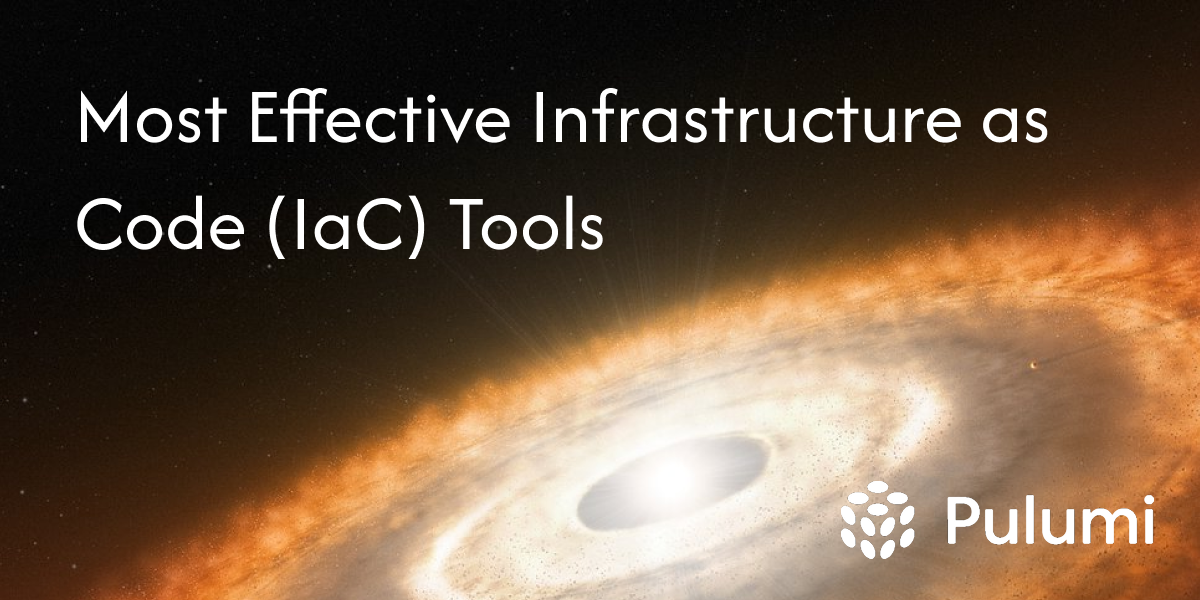
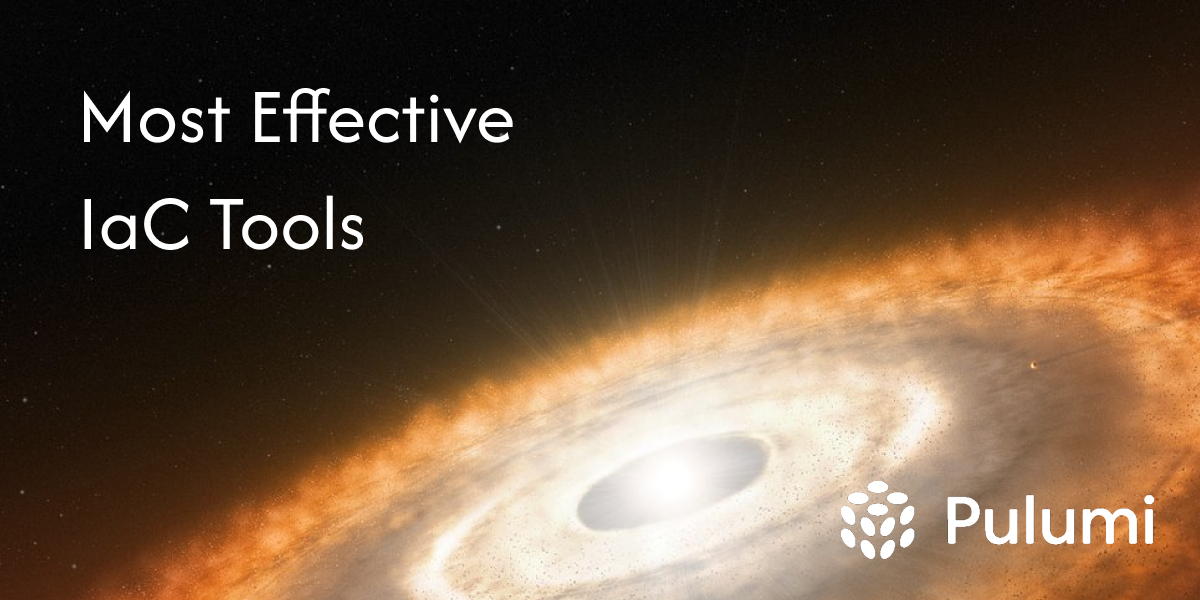
Effective iac tools update (#15557)
* meta image and intro section

* meta image

Changed region(s): [[0.0617, 0.15, 0.8942, 0.24], [0.0617, 0.33, 0.5242, 0.42]]

diff --git a/content/blog/infrastructure-as-code-tools/index.md b/content/blog/infrastructure-as-code-tools/index.md
@@ -3,6 +3,7 @@ title: "Most Effective Infrastructure as Code (IaC) Tools"
 date: 2025-06-26
 draft: false
 meta_desc: "Complete guide to the most effective IaC tools. Compare Pulumi, Terraform, OpenTofu, AWS CDK, and more to find the perfect solution."
+meta_image: meta.png
 authors:
     - asaf-ashirov
     - isaac-harris
@@ -18,11 +19,11 @@ tags:
 
 Infrastructure as Code (IaC) has evolved beyond simple automation into a fundamental shift toward applying software engineering practices to infrastructure management. In 2025, leading organizations aren't just provisioning infrastructure—they're treating it as software, complete with testing, version control, code reviews, and continuous integration.
 
+<!--more-->
+
 As infrastructure complexity grows, teams increasingly seek approaches that provide the same developer productivity tools they use for application development. While template-based and domain-specific language approaches serve many use cases effectively, teams with complex requirements or programming backgrounds often find that general-purpose programming languages offer advantages in testing, abstraction, and collaboration.
 
 This comprehensive guide examines the most effective infrastructure as code tools available today, providing detailed analysis of core IaC platforms, complementary tools, and related technologies through the lens of software engineering best practices. Whether you're starting fresh with IaC or evaluating alternatives to overcome limitations in your current toolchain, we'll help you navigate this complex landscape and choose solutions that truly bring software engineering to infrastructure.
-
-<!--more-->
 
 ## What is Infrastructure as Code?
 
